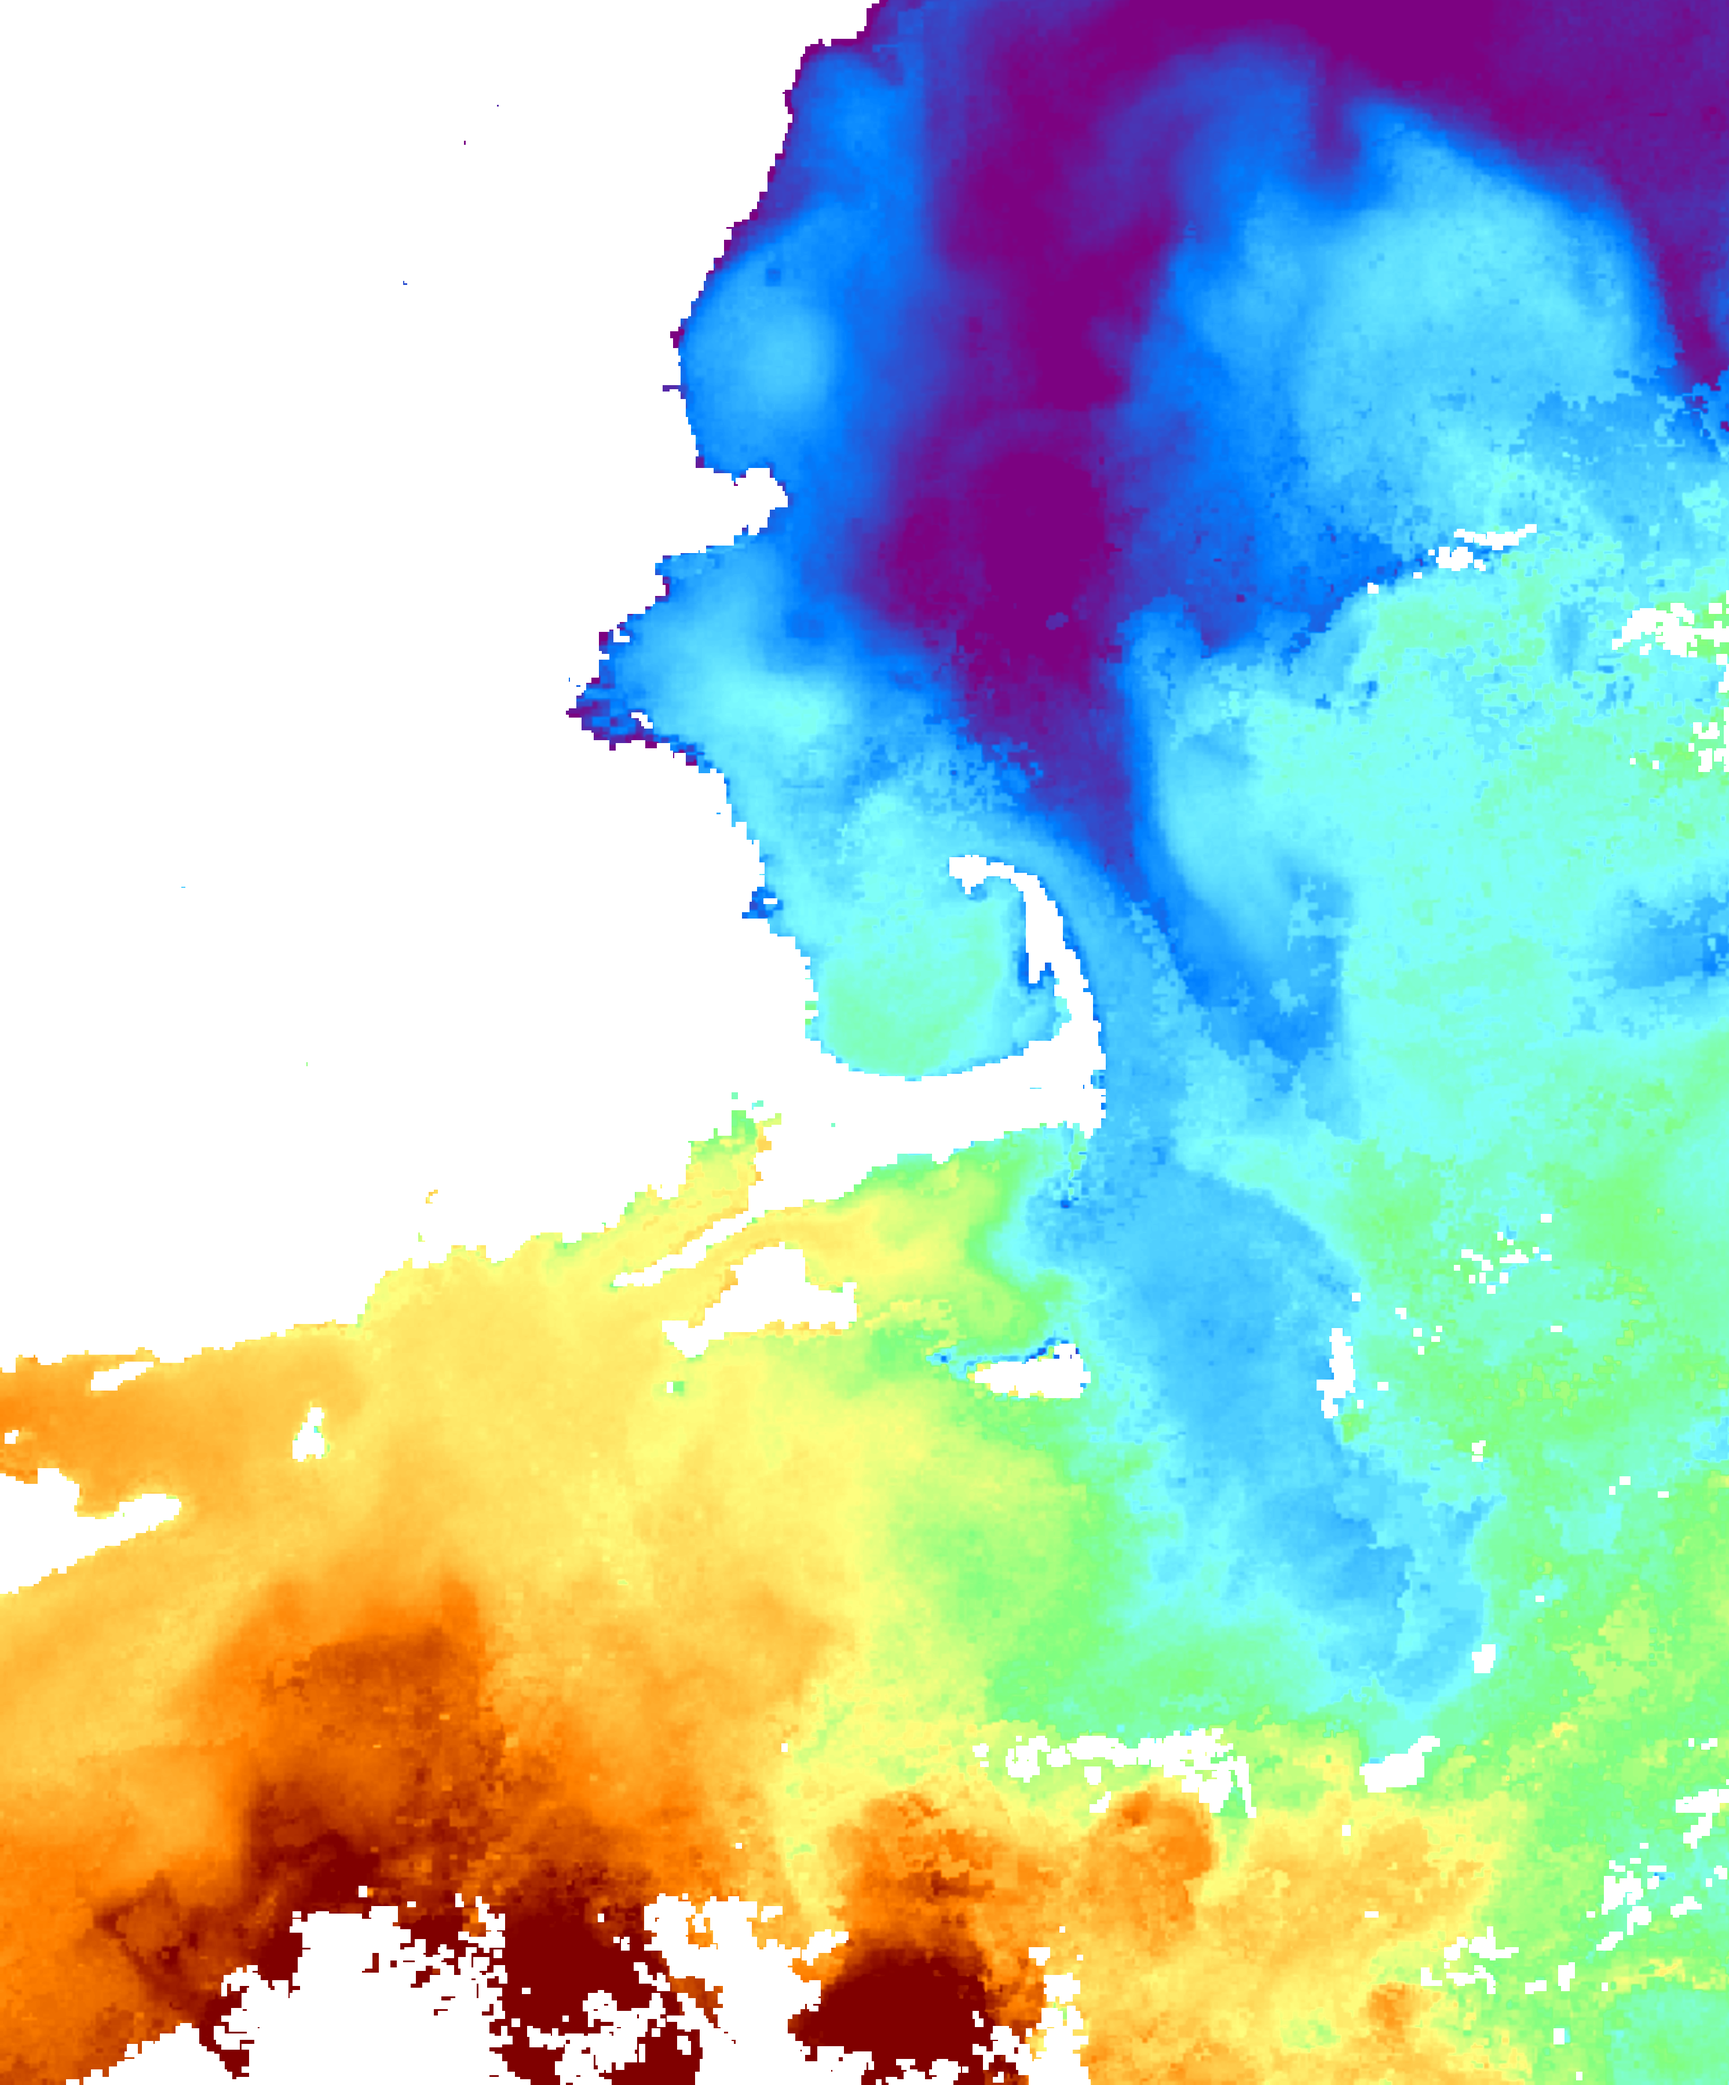
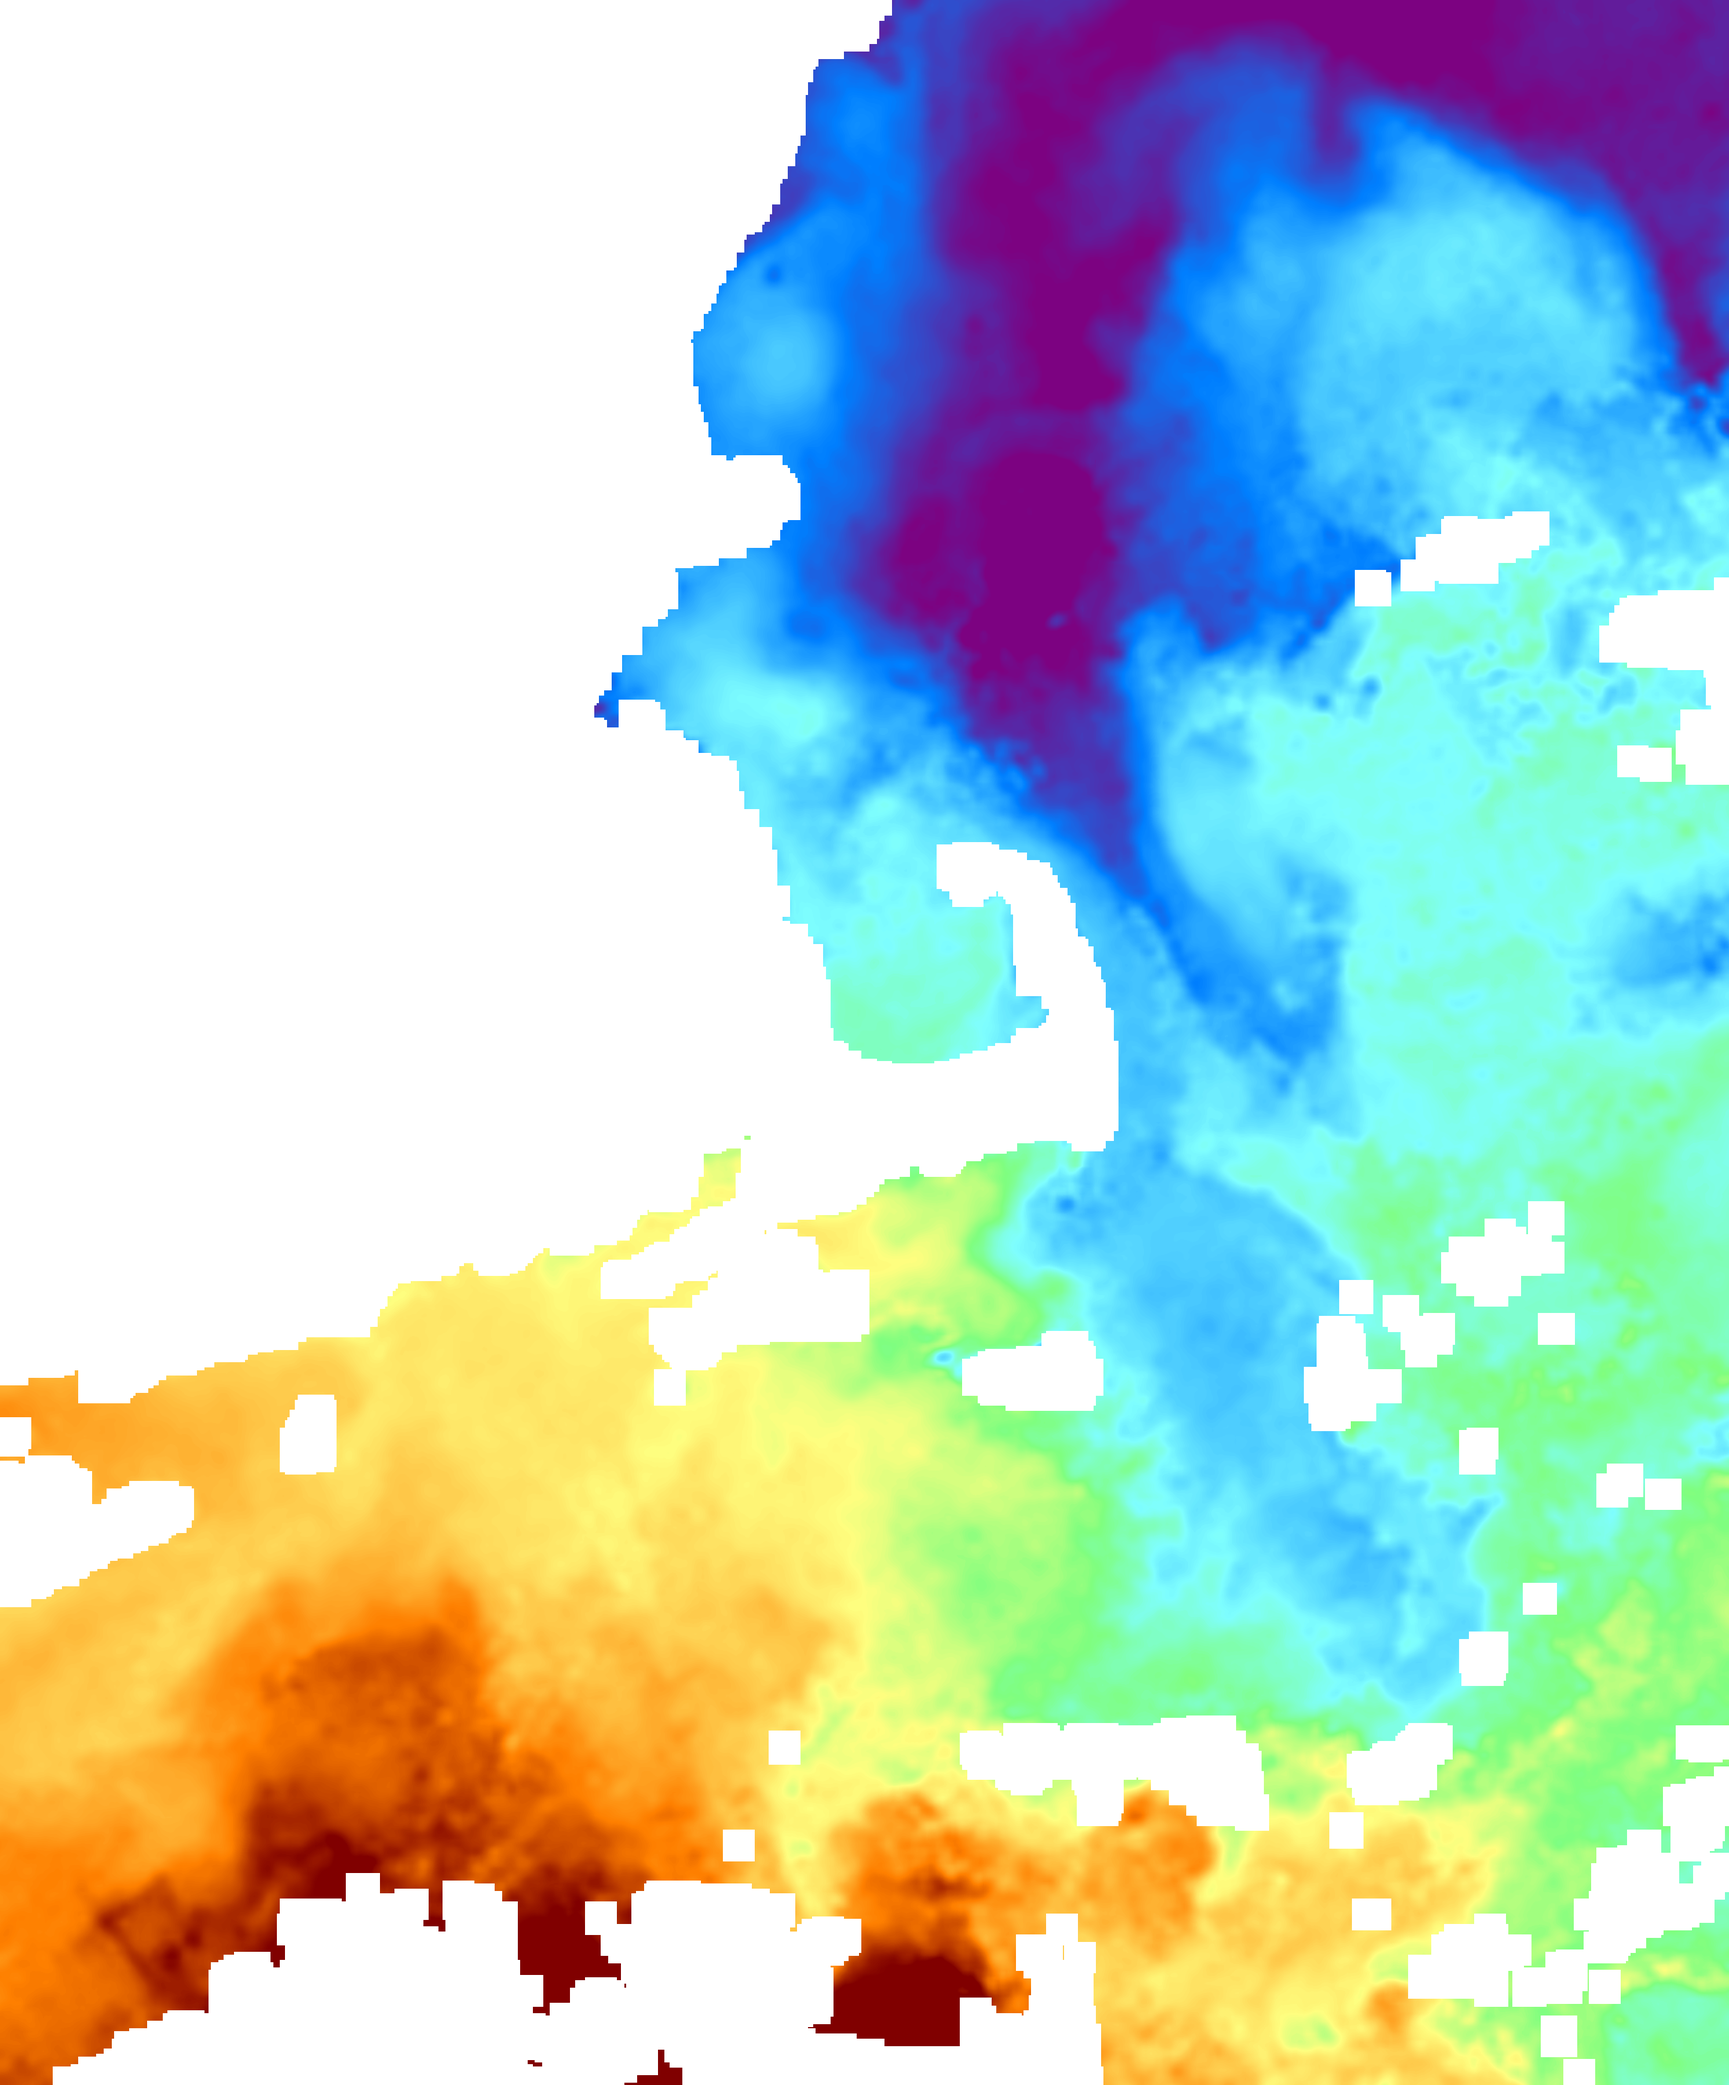
add smooth_sst_with_savgol

diff --git a/generate-sst.py b/generate-sst.py
@@ -84,7 +84,7 @@ def interpolate_sst(sst, scale_factor):
     
     return interpolated_sst
 
-def smooth_sst_with_savgol(sst, window_length=5, polyorder=2):
+def smooth_sst_with_savgol(sst, window_length=11, polyorder=2):
     # Apply Savitzky-Golay filter along each axis
     smoothed_sst = savgol_filter(sst, window_length=window_length, polyorder=polyorder, axis=0, mode='nearest')
     smoothed_sst = savgol_filter(smoothed_sst, window_length=window_length, polyorder=polyorder, axis=1, mode='nearest')
@@ -92,7 +92,7 @@ def smooth_sst_with_savgol(sst, window_length=5, polyorder=2):
 
 def increase_resolution(sst, lat, lon, scale_factor):
     # Smooth the SST data before interpolation
-    smoothed_sst = smooth_sst_with_savgol(sst, window_length=5, polyorder=2)
+    smoothed_sst = smooth_sst_with_savgol(sst, window_length=11, polyorder=2)
     
     high_res_sst = interpolate_sst(smoothed_sst, scale_factor)
     
@@ -150,9 +150,9 @@ def process_zoom_levels(sst, lat, lon, output_dir):
         if zoom == 5:
             output_sst = sst  # No change for zoom level 5
         elif zoom == 8:
-            output_sst = increase_resolution(sst, lat, lon, scale_factor=8)
+            output_sst = increase_resolution(sst, lat, lon, scale_factor=20)
         elif zoom == 10:
-            output_sst = increase_resolution(sst, lat, lon, scale_factor=18)
+            output_sst = increase_resolution(sst, lat, lon, scale_factor=30)
         
         output_path = os.path.join(output_dir, f'sst_zoom_{zoom}.png')
         save_sst_image(output_sst, output_path, zoom, vmin, vmax)
